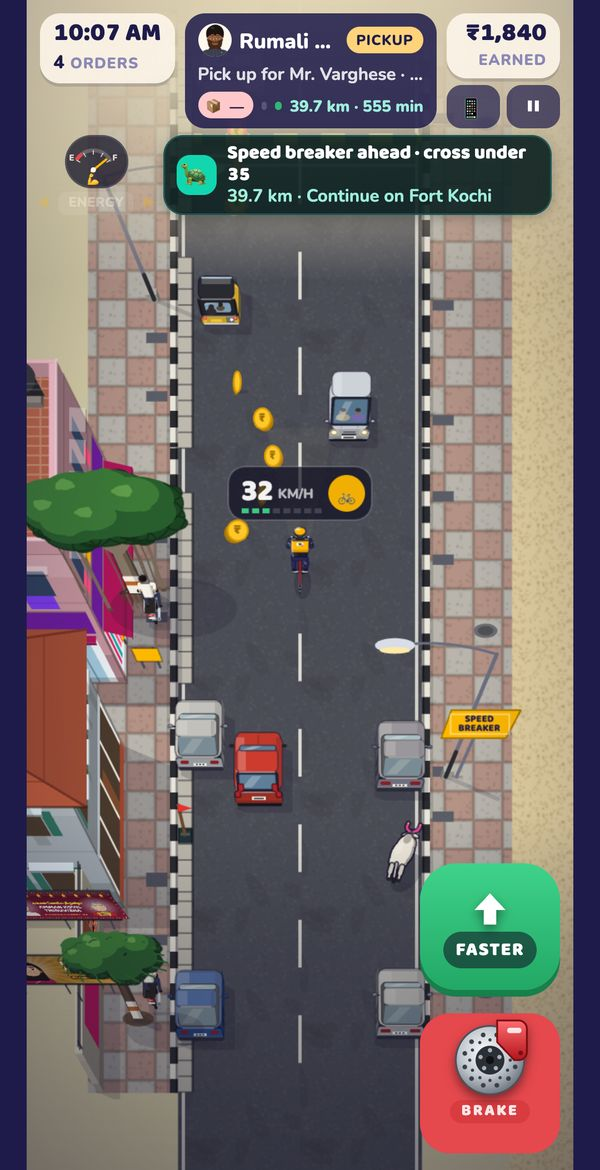
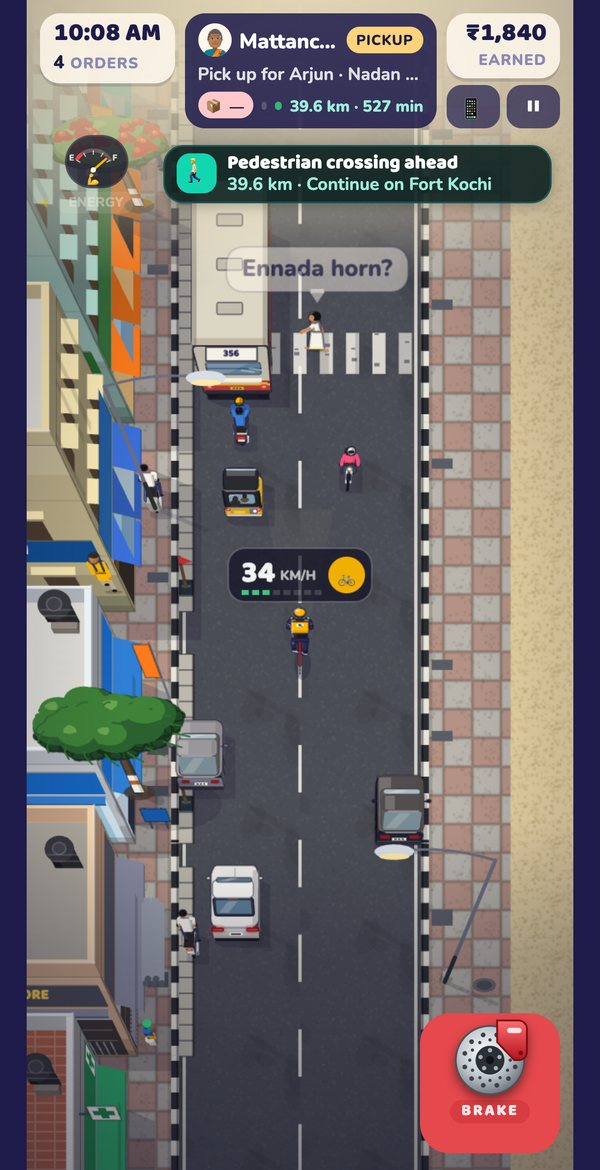
Tip Top Rider: push-to-fly controls, refreshed screenshots (no TURBO)

diff --git a/tiptoprider/index.html b/tiptoprider/index.html
@@ -4,7 +4,7 @@
 <meta charset="utf-8">
 <meta name="viewport" content="width=device-width, initial-scale=1">
 <title>Tip Top Rider: Delivery Game</title>
-<meta name="description" content="A food-delivery bike game on real Indian streets. Ride from the Pollachi villages to Delhi NCR, dodge cows and autos, drift into the drop zone with one-tap Style Park, fill your TURBO and ride anything from a bicycle to a superbike.">
+<meta name="description" content="A food-delivery bike game on real Indian streets. Ride from the Pollachi villages to Delhi NCR, dodge cows and autos, drift into the drop zone with one-tap Style Park, push to fly and ride anything from a bicycle to a superbike.">
 <meta property="og:title" content="Tip Top Rider: Delivery Game">
 <meta property="og:description" content="Deliver food. Read the room. Dodge the city. A bike delivery game set on real Indian streets.">
 <meta property="og:image" content="https://johnjayasingh.github.io/tiptoprider/img/feature.png">
@@ -94,10 +94,10 @@ footer nav{display:flex;gap:16px;flex-wrap:wrap}
     <h2 id="new-title">New in version 1.4</h2>
     <p class="kicker">The biggest update yet: easier controls, a practice street, stunts at the door and a lot more to ride.</p>
     <div class="feat">
-      <div class="f"><div class="i">👆</div><h3>Ride your way</h3><p>Four control schemes: Follow finger (slide anywhere and the bike follows), Thumb ring, Tilt or a two-thumb handlebar. Bigger FASTER and BRAKE buttons, and the horn honks by itself.</p></div>
+      <div class="f"><div class="i">👆</div><h3>Ride your way</h3><p>Four control schemes: Follow finger (slide to steer, push forward to speed up), Thumb ring, Tilt or a two-thumb handlebar. A bigger BRAKE button, and the horn honks by itself.</p></div>
       <div class="f"><div class="i">🎓</div><h3>Rider Academy</h3><p>A quiet practice street with friendly lesson cards for speed, braking, reversing, squeezing through, U-turns, fuel and charging. Nothing can go wrong.</p></div>
       <div class="f"><div class="i">✨</div><h3>One-tap Style Park</h3><p>Stop anywhere in the big green zone and walk the bag to the door, or tap STYLE PARK and drift or stoppie right onto the marker. Some customers cheer, some don't.</p></div>
-      <div class="f"><div class="i">⚡</div><h3>TURBO and power-ups</h3><p>Close shaves, slipstreams and overtakes fill your TURBO. Grab coin runs, a coin magnet, a food shield, extra time, a boost and Rider Sense.</p></div>
+      <div class="f"><div class="i">⚡</div><h3>Push to fly, grab power-ups</h3><p>Push your finger forward to speed up: the further you push, the harder you go, and the bike keeps the pace when you let go. Grab coin runs, a coin magnet, a food shield, extra time, a boost and Rider Sense.</p></div>
       <div class="f"><div class="i">🧠</div><h3>Rider Sense</h3><p>Your rider learns to steer around people, animals and traffic, and gets better with every shift.</p></div>
       <div class="f"><div class="i">🚲</div><h3>Bicycles</h3><p>A city roadster, a mountain bike and a road bike. Pedal power with an energy meter, no fuel, no police paperwork, and traffic gives you room.</p></div>
       <div class="f"><div class="i">🏔</div><h3>10 adventure bikes</h3><p>Tall, tough bikes that ride straight over potholes and speed breakers. Switch rides any time from My bikes in your garage.</p></div>
@@ -110,14 +110,14 @@ footer nav{display:flex;gap:16px;flex-wrap:wrap}
     <h2>Screenshots</h2>
     <div class="shots">
       <figure><picture><source srcset="img/style-park.webp" type="image/webp"><img src="img/style-park.jpg" alt="Style park: the bike drifts onto the marker in the green drop zone while the customer cheers" width="600" height="1170" loading="lazy"></picture><figcaption>One-tap Style Park</figcaption></figure>
-      <figure><picture><source srcset="img/turbo.webp" type="image/webp"><img src="img/turbo.jpg" alt="TURBO firing next to a red bus on a rainy Bandra road, with a food shield power-up running" width="600" height="1170" loading="lazy"></picture><figcaption>TURBO in the Mumbai rain</figcaption></figure>
+      <figure><picture><source srcset="img/speed.webp" type="image/webp"><img src="img/speed.jpg" alt="Riding at 68 km/h through the monsoon rain in Andheri East, between a red bus and an oncoming bus, with a coin run behind" width="600" height="1170" loading="lazy"></picture><figcaption>Push to fly in the Mumbai rain</figcaption></figure>
       <figure><picture><source srcset="img/academy.webp" type="image/webp"><img src="img/academy.jpg" alt="Rider Academy lesson card: Cows own the road, lesson 7 of 18" width="600" height="1170" loading="lazy"></picture><figcaption>Rider Academy</figcaption></figure>
-      <figure><picture><source srcset="img/cycle.webp" type="image/webp"><img src="img/cycle.jpg" alt="Riding a road bike through Fort Kochi with coins ahead and cars keeping their distance" width="600" height="1170" loading="lazy"></picture><figcaption>Bicycles, Fort Kochi</figcaption></figure>
+      <figure><picture><source srcset="img/cycle.webp" type="image/webp"><img src="img/cycle.jpg" alt="Riding a road bike through Fort Kochi past autos and a bus, with a pedestrian crossing ahead" width="600" height="1170" loading="lazy"></picture><figcaption>Bicycles, Fort Kochi</figcaption></figure>
       <figure><picture><source srcset="img/door.webp" type="image/webp"><img src="img/door.jpg" alt="Door card for a happy customer with a Loved your stoppie chip and three reply choices" width="600" height="1170" loading="lazy"></picture><figcaption>Read every customer</figcaption></figure>
       <figure><picture><source srcset="img/ambulance.webp" type="image/webp"><img src="img/ambulance.jpg" alt="Paramedics bandage the rider next to an ambulance with its rear doors open in Chandni Chowk" width="600" height="1170" loading="lazy"></picture><figcaption>Friendly paramedics</figcaption></figure>
       <figure><picture><source srcset="img/adventure.webp" type="image/webp"><img src="img/adventure.jpg" alt="Showroom reveal of the Bavaria GS 1250 Adventure with the rider cheering" width="600" height="1170" loading="lazy"></picture><figcaption>Adventure bikes</figcaption></figure>
       <figure><picture><source srcset="img/power-ups.webp" type="image/webp"><img src="img/power-ups.jpg" alt="Coin magnet pulling coins to the rider near Charminar, with food shield and coin magnet timers" width="600" height="1170" loading="lazy"></picture><figcaption>Coins and power-ups</figcaption></figure>
-      <figure><picture><source srcset="img/ride-village.webp" type="image/webp"><img src="img/ride-village.jpg" alt="Riding a scooter down a village road in Pollachi past fields, carts and cows" width="600" height="1170" loading="lazy"></picture><figcaption>Pollachi villages</figcaption></figure>
+      <figure><picture><source srcset="img/ride-village.webp" type="image/webp"><img src="img/ride-village.jpg" alt="Riding a scooter down a village road in Pollachi past green fields, with a line of coins ahead" width="600" height="1170" loading="lazy"></picture><figcaption>Pollachi villages</figcaption></figure>
       <figure><img src="img/showroom-puja.jpg" alt="New bike puja at the showroom with lemons under the tyres" width="600" height="1170" loading="lazy"><figcaption>New bike puja</figcaption></figure>
     </div>
   </section>

diff --git a/index.html b/index.html
@@ -63,7 +63,7 @@
             <ul class="facts">
               <li><b>12 cities</b> and 46 areas, each with its own landmarks and food</li>
               <li><b>42 bikes</b>, from a ₹350 bicycle to a 300 km/h superbike</li>
-              <li><b>New in 1.4:</b> one-tap Style Park, TURBO, the Rider Academy and four ways to ride</li>
+              <li><b>New in 1.4:</b> slide to steer and push to fly, one-tap Style Park and the Rider Academy</li>
               <li><b>300+ customers</b> with moods, who remember how you treated them</li>
               <li><b>Plays offline</b> on Android and iPhone</li>
             </ul>
@@ -74,7 +74,7 @@
             </div>
           </div>
           <div class="phones" aria-label="Screenshots from Tip Top Rider">
-            <figure class="phone p1"><picture><source srcset="tiptoprider/img/turbo.webp" type="image/webp" /><img src="tiptoprider/img/turbo.jpg" alt="TURBO firing next to a red bus on a rainy Mumbai road" width="600" height="1170" loading="lazy" /></picture></figure>
+            <figure class="phone p1"><picture><source srcset="tiptoprider/img/speed.webp" type="image/webp" /><img src="tiptoprider/img/speed.jpg" alt="Riding at 68 km/h through the Mumbai rain, between a red bus and an oncoming bus" width="600" height="1170" loading="lazy" /></picture></figure>
             <figure class="phone p2"><picture><source srcset="tiptoprider/img/style-park.webp" type="image/webp" /><img src="tiptoprider/img/style-park.jpg" alt="Style park: the delivery bike drifts onto the marker in the green drop zone while the customer cheers" width="600" height="1170" /></picture></figure>
             <figure class="phone p3"><picture><source srcset="tiptoprider/img/adventure.webp" type="image/webp" /><img src="tiptoprider/img/adventure.jpg" alt="Showroom reveal of a blue adventure bike with the rider cheering" width="600" height="1170" loading="lazy" /></picture></figure>
           </div>
